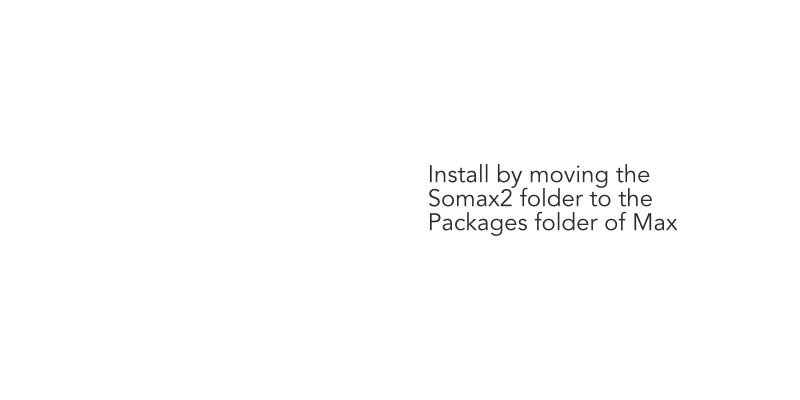
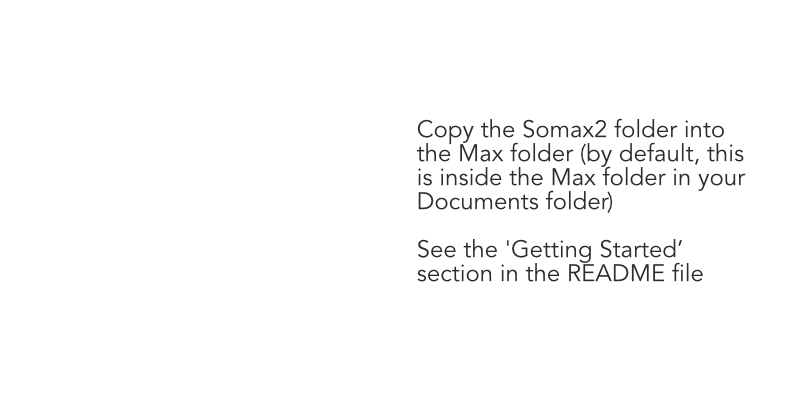
Final readme updates

Changed region(s): [[0.5, 0.3, 0.9375, 0.72]]

diff --git a/README.md b/README.md
@@ -33,7 +33,11 @@ If you want to modify the python code, you will need a manual installation. This
 * If not already installed, make sure to go to the package manager inside Max and install CNMAT Externals
 
 ## Getting Started
-A good starting point is the document `Introduction Somax.pdf`, which gives a brief overview of how the Somax interaction model works. For those who prefer a hands-on experience, it's also possible to jump directly into the tutorial, found in the file `tutorial.maxpat` in the root folder. This tutorial gives a brief introduction to the different modules of Somax II and introduces the first steps towards interacting with the model. 
+The main Somax application is the patch `somax2.maxpat`. You can open this patch from inside Max or by opening it directly from Finder. 
+
+It is recommended to first follow the interactive tutorial by opening the `tutorial.maxpat` patch. This tutorial gives a brief introduction to the different modules of Somax and introduces the first steps towards interacting with the model.
+
+A good starting point in understanding Somax is the document `Introduction Somax.pdf`, which gives a brief overview of how the Somax interaction model works.
 
 **Note that the first time you launch Somax, depending on your security settings you may be presented with a number of dialogues asking you to give permission to a number of externals (shell, bonk, ircamdescriptor, bc.virfun and bc.yinstats) that Somax requires to be able to run. You may also be asked for permission the first time you launch the server (but this step is explained in the tutorial).**
 
